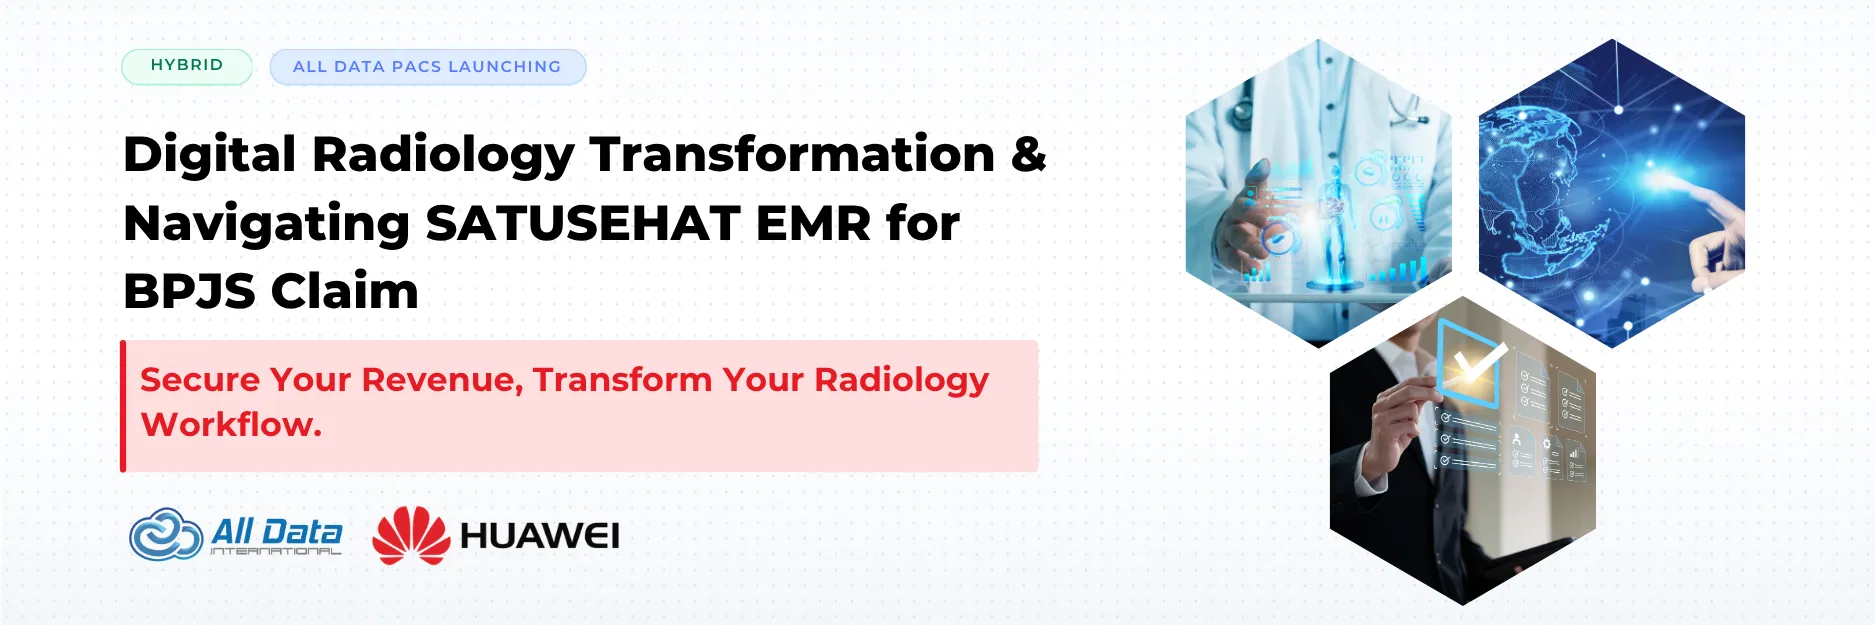
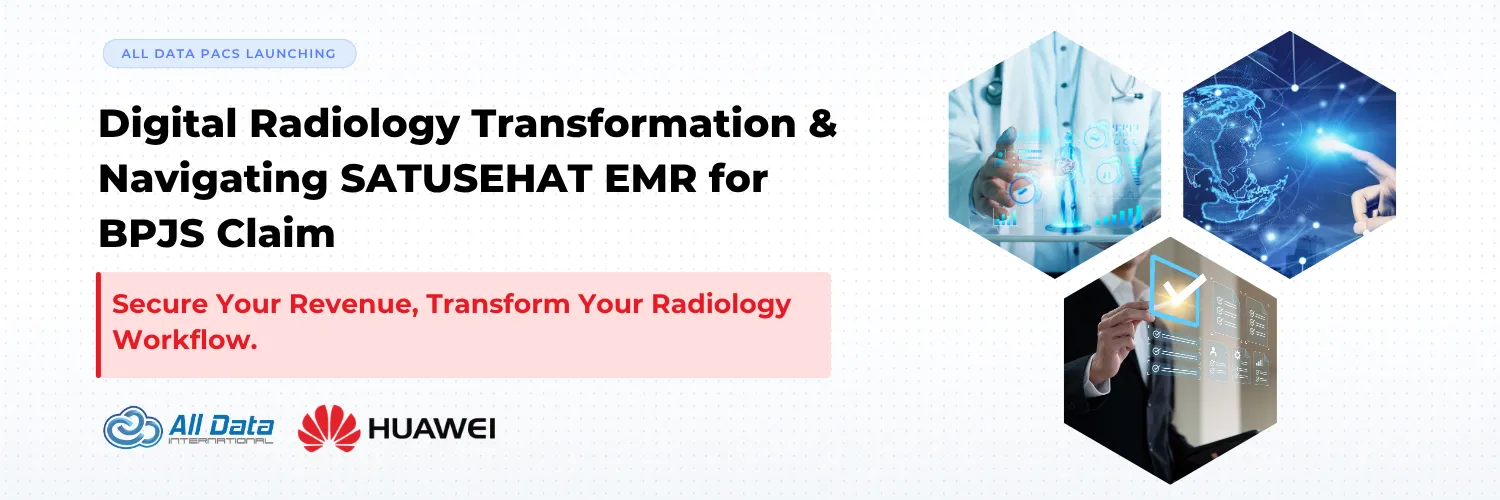
update og img

diff --git a/app/Views/pages/events/digital-radiology-transformation-hybrid.php b/app/Views/pages/events/digital-radiology-transformation-hybrid.php
@@ -210,7 +210,7 @@ if ($_SERVER["REQUEST_METHOD"] == "POST") {
     <meta property="og:url" content="<?= current_url(); ?>">
     <meta property="og:title" content="<?php echo $t['title']; ?>">
     <meta property="og:description" content="<?php echo $t['description']; ?>">
-    <meta property="og:image" content="<?= base_url('assets/images/og/digital-radiology-transformation.webp'); ?>">
+    <meta property="og:image" content="<?= base_url('assets/images/og/digital-radiology-transformation-hybrid.webp'); ?>">
     <meta property="og:image:width" content="1875">
     <meta property="og:image:height" content="625">
     <meta property="og:locale" content="<?php echo $lang === 'en' ? 'en_US' : 'id_ID'; ?>">
@@ -220,7 +220,7 @@ if ($_SERVER["REQUEST_METHOD"] == "POST") {
     <meta name="twitter:url" content="<?= current_url(); ?>">
     <meta name="twitter:title" content="<?php echo $t['title']; ?>">
     <meta name="twitter:description" content="<?php echo $t['description']; ?>">
-    <meta name="twitter:image" content="<?= base_url('assets/images/twitter/digital-radiology-transformation.webp'); ?>">
+    <meta name="twitter:image" content="<?= base_url('assets/images/twitter/digital-radiology-transformation-hybrid.webp'); ?>">
 
     <!-- Favicon -->
     <link rel="icon" href="<?= base_url('assets/images/all-data-international-logo-site.png') ?>">
